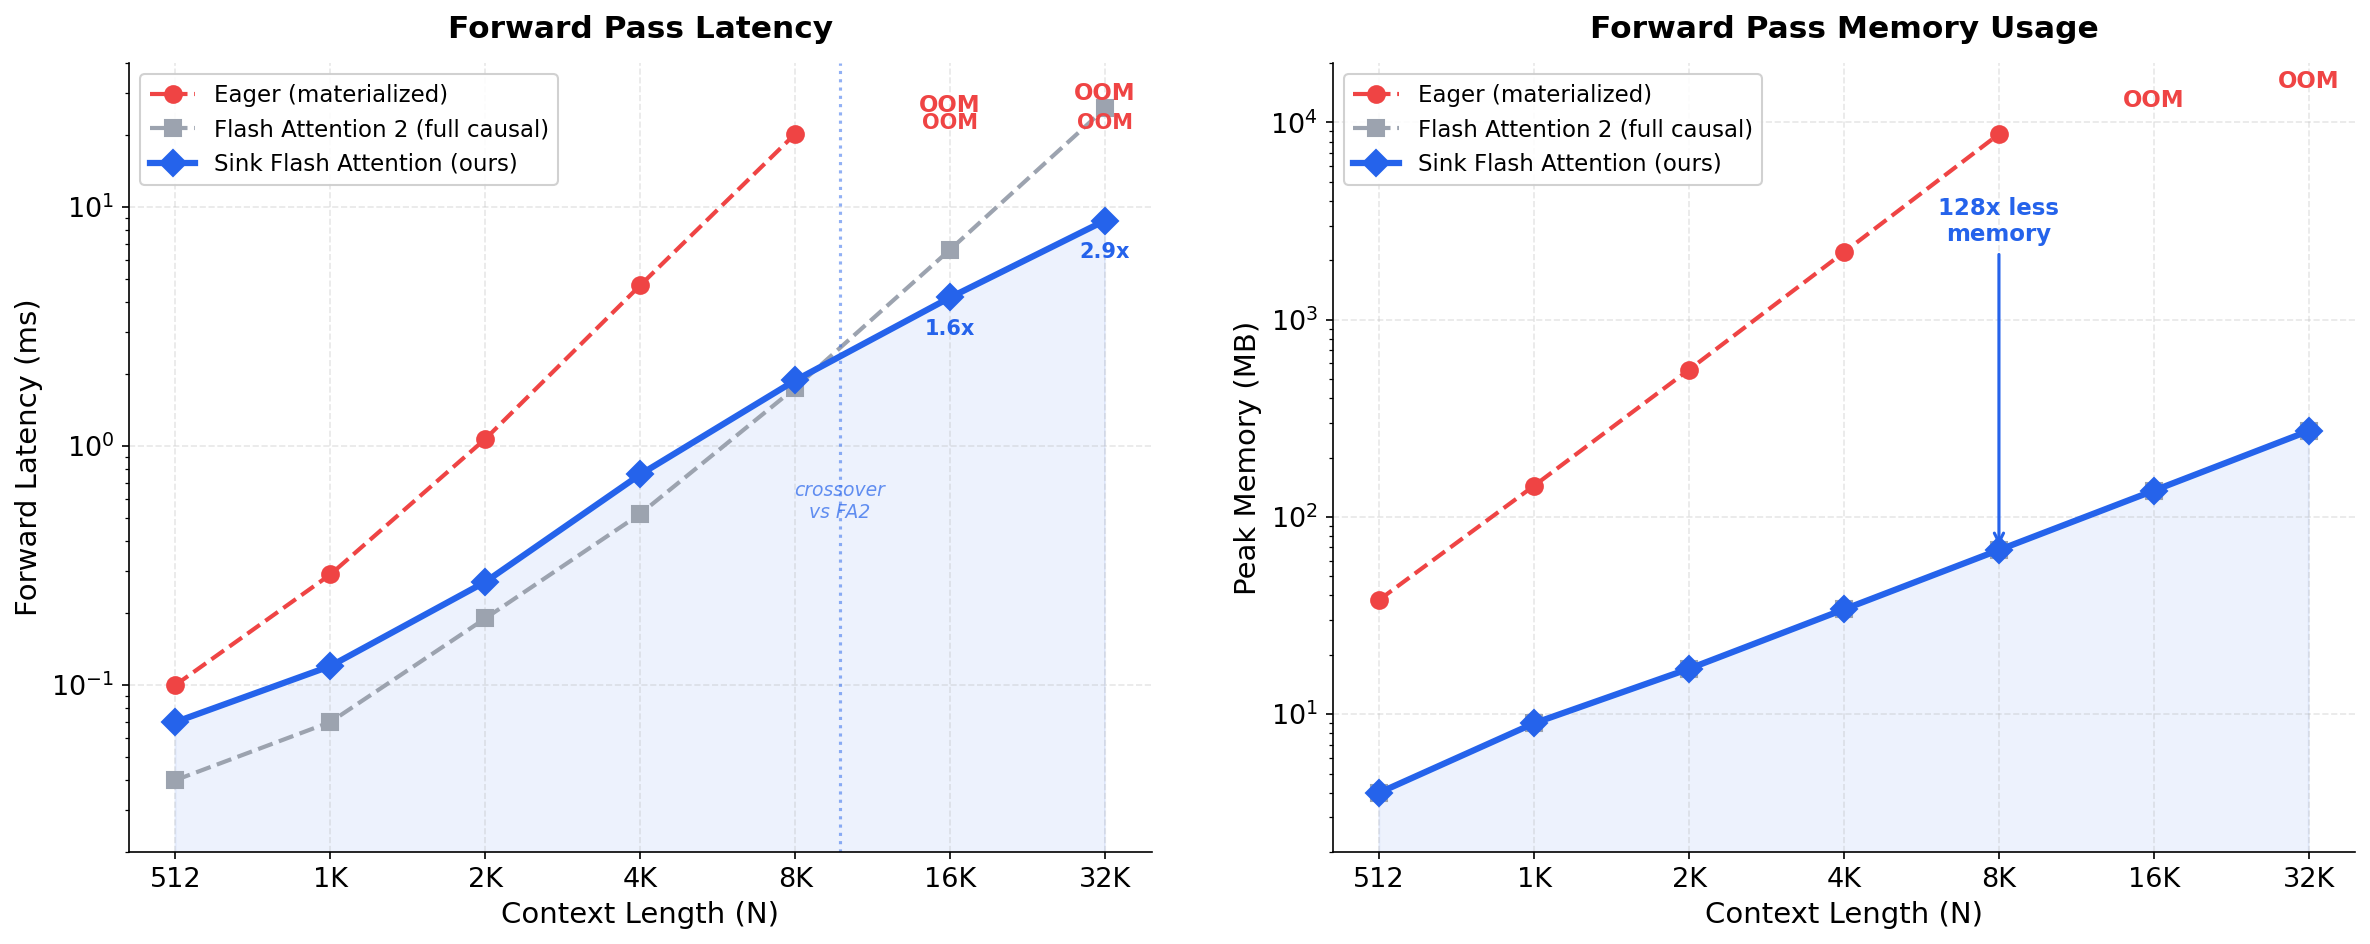
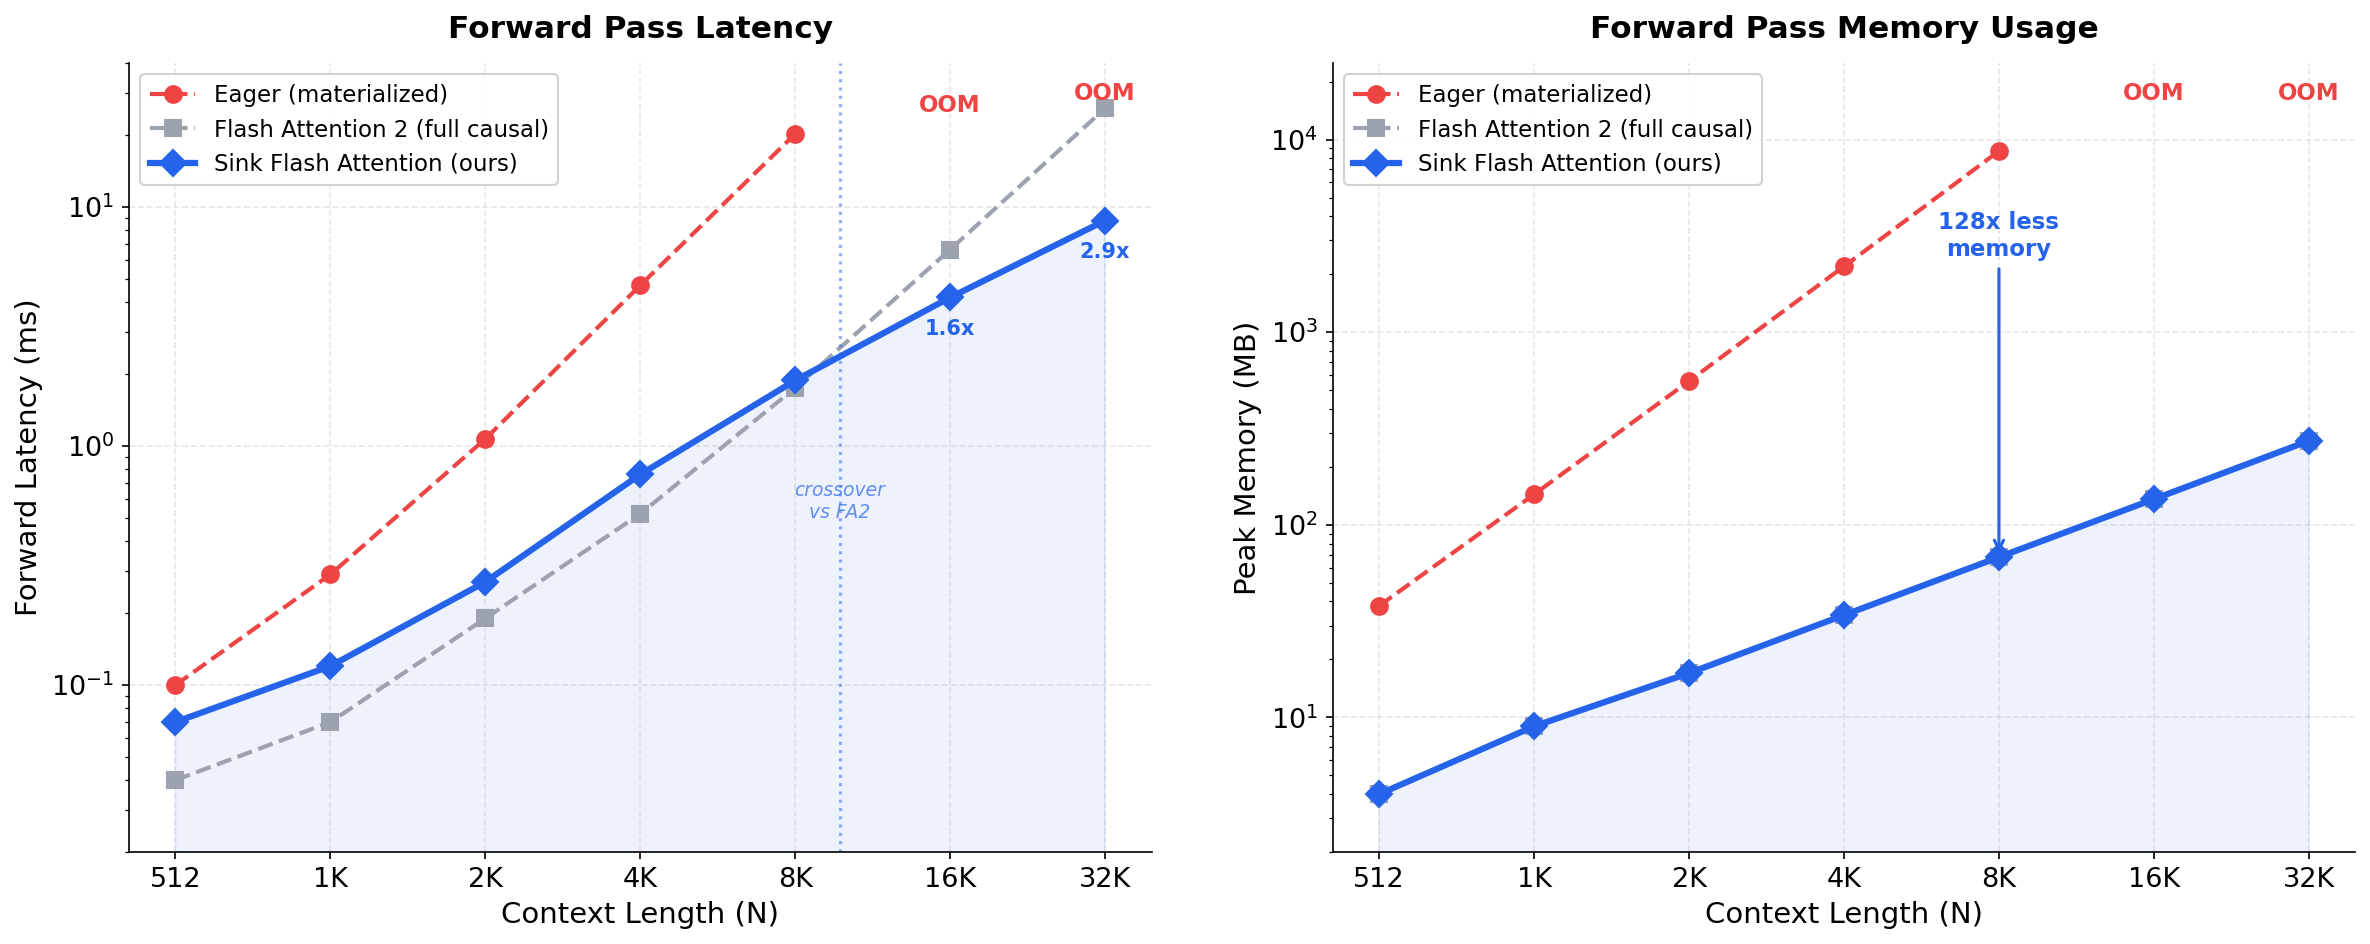
Fix duplicate OOM labels in forward latency plot

diff --git a/scripts/plot_benchmarks.py b/scripts/plot_benchmarks.py
@@ -61,11 +61,6 @@ eager_valid_n = [n for n, m in zip(N, eager_ms) if m is not None]
 eager_valid_ms = [m for m in eager_ms if m is not None]
 ax1.plot(eager_valid_n, eager_valid_ms, 'o--', color=EAGER_COLOR, linewidth=2,
          markersize=8, label='Eager (materialized)', zorder=2)
-# OOM markers
-for n, m in zip(N, eager_ms):
-    if m is None:
-        ax1.annotate('OOM', (n, ax1.get_ylim()[1] if ax1.get_ylim()[1] > 1 else 30),
-                     fontsize=10, color=EAGER_COLOR, ha='center', fontweight='bold')
 
 # FA2
 ax1.plot(N, fa2_ms, 's--', color=FA2_COLOR, linewidth=2, markersize=8,
@@ -117,9 +112,9 @@ ax2.plot(eager_valid_n_mem, eager_valid_mem, 'o--', color=EAGER_COLOR, linewidth
          markersize=8, label='Eager (materialized)', zorder=2)
 
 # OOM markers for eager
-ax2.annotate('OOM', xy=(16384, 12000), fontsize=11, color=EAGER_COLOR,
+ax2.annotate('OOM', xy=(16384, 16000), fontsize=11, color=EAGER_COLOR,
              fontweight='bold', ha='center')
-ax2.annotate('OOM', xy=(32768, 15000), fontsize=11, color=EAGER_COLOR,
+ax2.annotate('OOM', xy=(32768, 16000), fontsize=11, color=EAGER_COLOR,
              fontweight='bold', ha='center')
 
 # FA2 memory
@@ -144,7 +139,7 @@ ax2.set_title('Forward Pass Memory Usage', fontsize=15, fontweight='bold', pad=1
 ax2.set_xticks(N)
 ax2.set_xticklabels(['512', '1K', '2K', '4K', '8K', '16K', '32K'])
 ax2.legend(loc='upper left', fontsize=11, framealpha=0.9)
-ax2.set_ylim(2, 20000)
+ax2.set_ylim(2, 25000)
 
 plt.tight_layout(w_pad=3)
 plt.savefig('/home/rulin/sink_attention/docs/performance.png', dpi=150, bbox_inches='tight',
